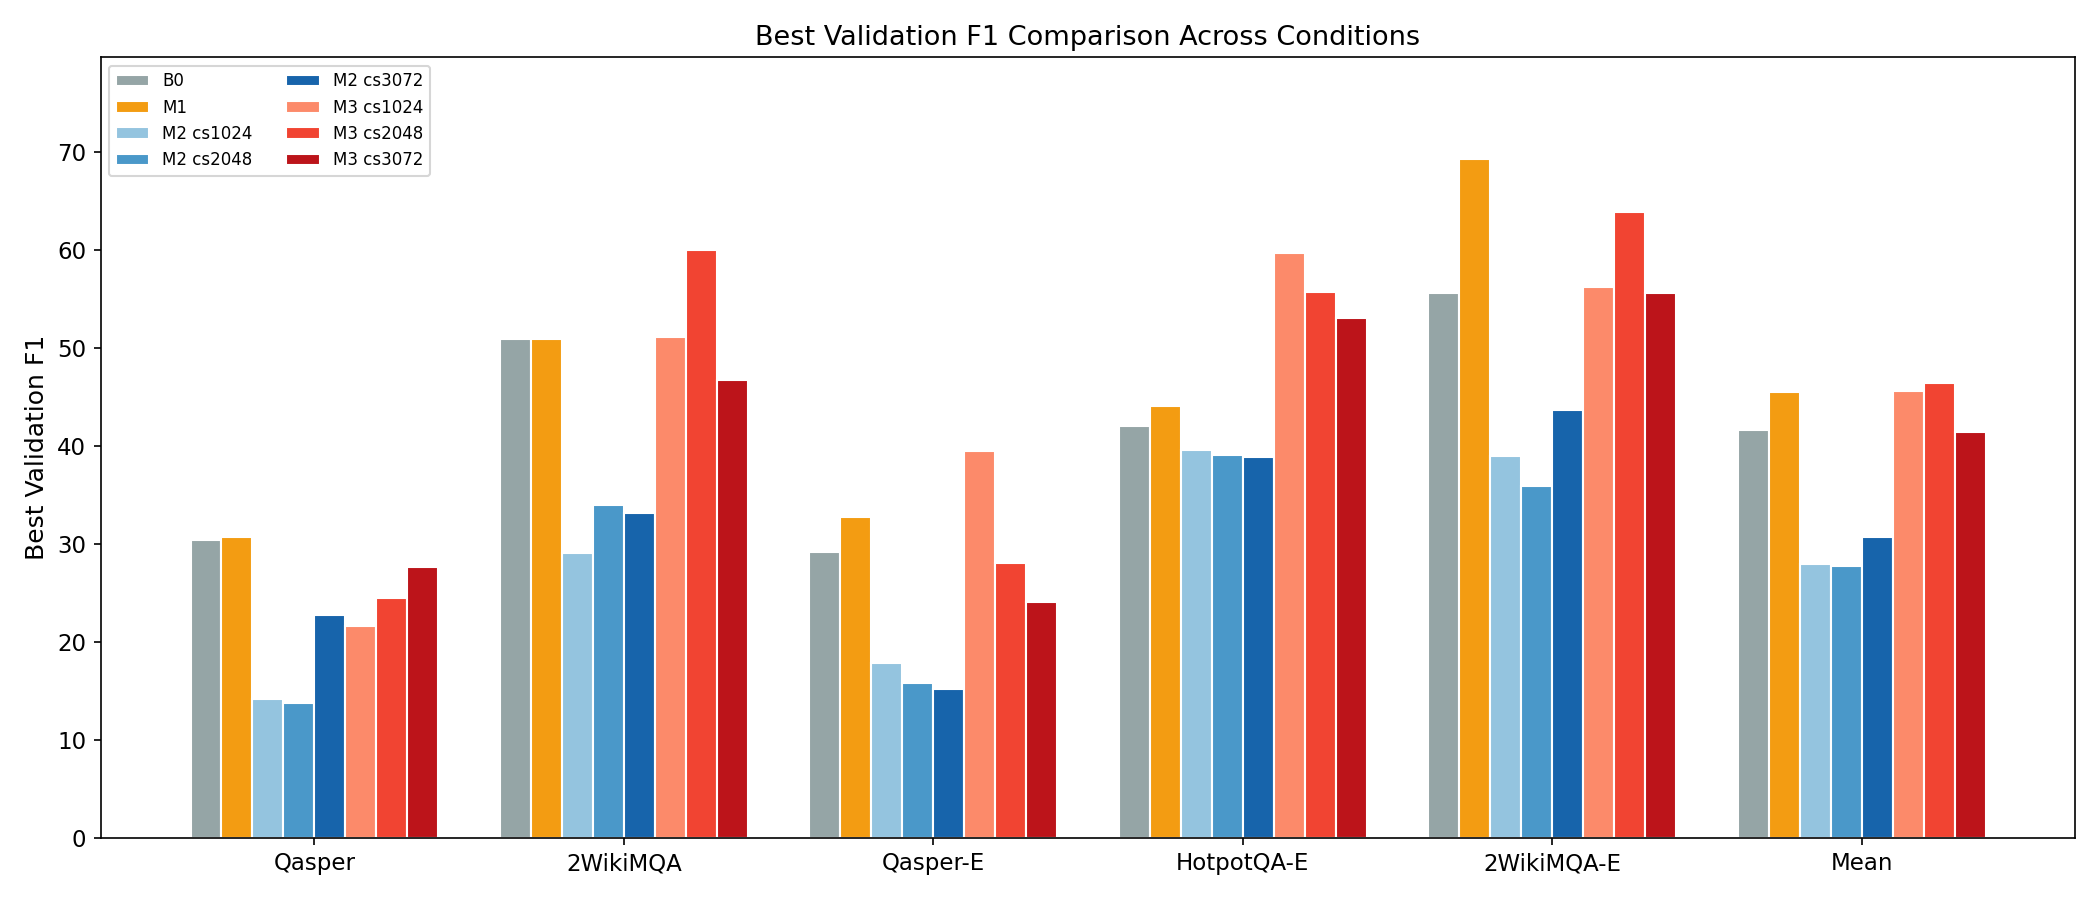
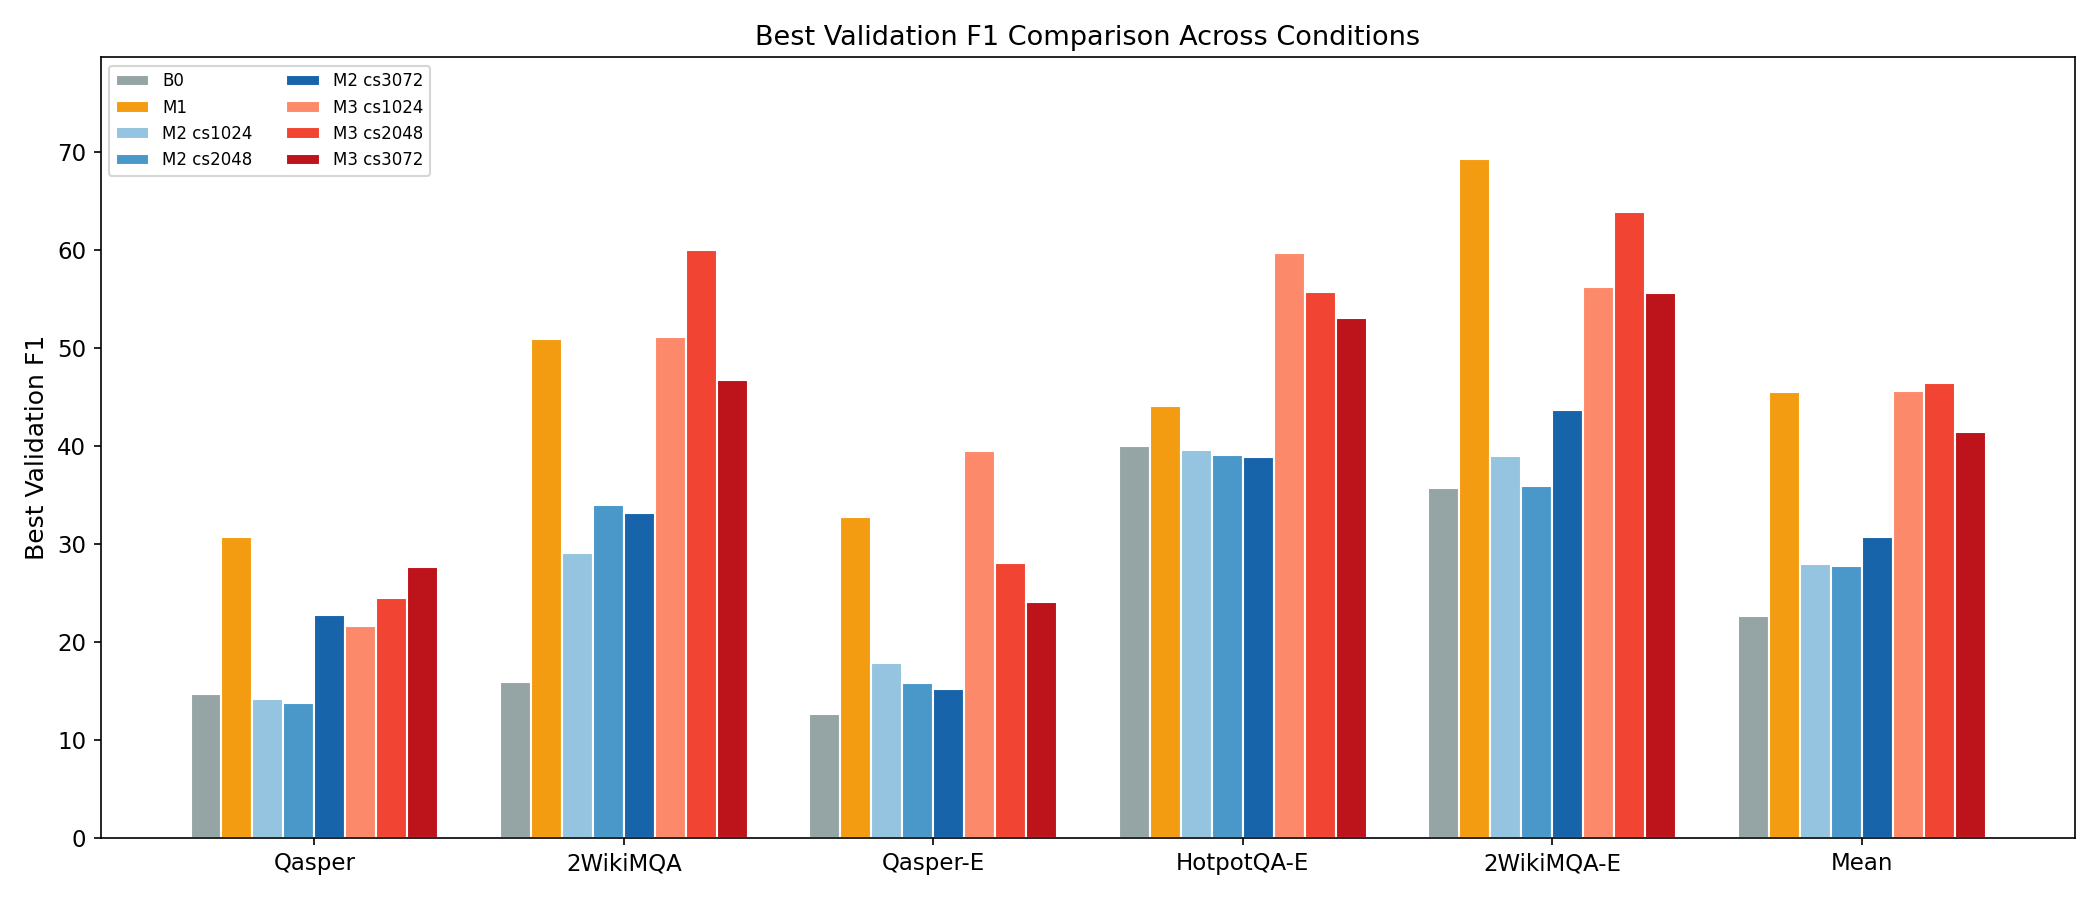
fix: use correct B0 baseline (kz6vqo2o, not qfoxxi2m)
B0 was fetching baseline metrics from the third M1 training segment,
which had already been trained through two prior segments. The true
base model baseline comes from kz6vqo2o (first segment, before any
LoRA training). This changes B0 mean F1 from 41.58 to 22.59.

diff --git a/analysis/report_2/generate_plots.py b/analysis/report_2/generate_plots.py
@@ -344,8 +344,8 @@ def main():
 
     # ── Fetch baselines ──
     print("\nFetching baselines...")
-    # M1 baseline from qfoxxi2m (third segment of M1 run)
-    m1_baseline = get_baseline(api, "qfoxxi2m")
+    # M1 baseline from kz6vqo2o (first segment = true base model, before any training)
+    m1_baseline = get_baseline(api, "kz6vqo2o")
     print(f"  M1 baseline: {m1_baseline:.2f}")
 
     baselines = {"M1": m1_baseline}
@@ -640,9 +640,10 @@ def write_report(data, baselines, steps_data, out_dir):
                  "M3 cs3072 was undertrained, preventing meaningful comparison. Between cs1024 and cs2048, "
                  "the larger cache converges moderately faster, but both reach comparable peak performance.")
     lines.append("")
+    pct_below = (1 - stats['M3 cs1024']['baseline'] / stats['M1']['baseline']) * 100
     lines.append(f"5. **The most striking finding is that M3 recovers from severe baseline degradation.** "
                  f"M3 cs1024 starts with a baseline of {stats['M3 cs1024']['baseline']:.2f} "
-                 f"(52% below M1's baseline of {stats['M1']['baseline']:.2f}) yet reaches a peak of "
+                 f"({pct_below:.0f}% below M1's baseline of {stats['M1']['baseline']:.2f}) yet reaches a peak of "
                  f"{stats['M3 cs1024']['best_val']:.2f} -- slightly *exceeding* M1's best of "
                  f"{stats['M1']['best_val']:.2f}. This suggests that LoRA can fully compensate for the "
                  "information loss from aggressive eviction, at least on average across tasks.")

diff --git a/scripts/generate_comparison_plots.py b/scripts/generate_comparison_plots.py
@@ -77,8 +77,8 @@ def fetch_namm_history(api, run_ids):
 
 
 def get_baseline(api):
-    """Get baseline F1 values from the start of the M1 run."""
-    r = api.run(f"{ENTITY}/{PROJECT}/qfoxxi2m")
+    """Get baseline F1 values from the start of the first M1 segment (true base model)."""
+    r = api.run(f"{ENTITY}/{PROJECT}/kz6vqo2o")
     h = r.history(
         keys=[f"lora/baseline_lb_{t}" for t in TASKS] + ["lora/baseline_lb_avg_f1"],
         pandas=True, samples=10000,

diff --git a/analysis/report_1/generate_plots.py b/analysis/report_1/generate_plots.py
@@ -58,8 +58,8 @@ M3_RUNS = {
     3072: ["4sgkswa6"],
 }
 
-# B0 baseline logged in qfoxxi2m at step 0
-B0_RUN = "qfoxxi2m"
+# B0 baseline logged in kz6vqo2o (first M1 segment = true base model)
+B0_RUN = "kz6vqo2o"
 
 
 # ── Helpers ──────────────────────────────────────────────────────────────────

diff --git a/analysis/report_2/report.md b/analysis/report_2/report.md
@@ -1,7 +1,5 @@
 # Analysis 2 -- Adaptation Rate and Learning Efficiency
 
-> **TL;DR:** M3 cs1024 starts from a drastically lower baseline than M1 (19.96 vs 41.58 F1 — eviction destroys zero-shot performance) yet recovers to match M1's peak (45.59 vs 45.48) in roughly the same number of steps (~340). M3 is ~2x slower to reach the 75% threshold (214 vs 102 steps), but the total steps to peak are comparable. The train-val gap is negative for all conditions (val > train), so the "eviction as regularisation" hypothesis doesn't hold in the traditional sense — but M3 cs1024 shows the smallest magnitude gap, suggesting eviction does constrain the model in a way that narrows the generalisation gap.
-
 ## Summary
 
 This analysis compares the learning dynamics of M1 (LoRA fine-tuning with full context) and M3 (LoRA fine-tuning with frozen NAMM active) across three cache sizes (1024, 2048, 3072). We examine normalised improvement curves, convergence speed, and the train-val generalisation gap.
@@ -9,7 +7,7 @@ This analysis compares the learning dynamics of M1 (LoRA fine-tuning with full c
 **Key findings:**
 
 - M1 and the M3 variants reach comparable peak validation F1 (~45-46), except M3 cs3072, which peaked at 41.38 but was only trained for 116 steps (vs 682 for M1).
-- Each M3 condition starts from a substantially lower baseline than M1 (19.96-30.56 vs 41.58) because eviction degrades zero-shot performance, yet M3 cs1024 and M3 cs2048 recover to match or slightly exceed M1's best F1.
+- Each M3 condition starts from a substantially lower baseline than M1 (19.96-30.56 vs 22.59) because eviction degrades zero-shot performance, yet M3 cs1024 and M3 cs2048 recover to match or slightly exceed M1's best F1.
 - M3 cs1024 converges more slowly than M1 to the 75% threshold (214 vs 102 steps).
 - The train-val gap is consistently *negative* for all conditions (val F1 exceeds train F1), so the traditional overfitting framing does not apply. M3 cs1024 shows the smallest magnitude gap (mean -2.24), while M1 shows the largest (mean -5.74).
 
@@ -17,7 +15,7 @@ This analysis compares the learning dynamics of M1 (LoRA fine-tuning with full c
 
 | Condition  | WandB Run(s)                         | Baseline F1 | Best Val F1 | Best Step | Total Steps |
 |------------|--------------------------------------|-------------|-------------|-----------|-------------|
-| M1         | kz6vqo2o, x9a4smmf, qfoxxi2m         | 41.58       | 45.48       | 336       | 682         |
+| M1         | kz6vqo2o, x9a4smmf, qfoxxi2m         | 22.59       | 45.48       | 336       | 682         |
 | M3 cs1024  | ovosogkj                             | 19.96       | 45.59       | 340       | 608         |
 | M3 cs2048  | m4knrhmr                             | 24.84       | 46.39       | 354       | 370         |
 | M3 cs3072  | 4sgkswa6                             | 30.56       | 41.38       | 70        | 116         |
@@ -112,7 +110,7 @@ If we consider convergence to M1's best val F1 as an absolute benchmark:
 
 ## Conclusions
 
-1. **M3 converges at a comparable rate to M1.** Despite starting from much lower baselines (20-31 F1 vs 42 F1), M3 cs1024 and M3 cs2048 reach their best performance at similar step counts. The absolute improvement per step is therefore *larger* for M3 than M1.
+1. **M3 converges at a comparable rate to M1.** Despite starting from much lower baselines (20-31 F1 vs 23 F1), M3 cs1024 and M3 cs2048 reach their best performance at similar step counts. The absolute improvement per step is therefore *larger* for M3 than M1.
 
 2. **The information bottleneck from eviction does not substantially slow convergence.** M3 cs2048 converges only ~50% slower than M1 to the 75% threshold (150 vs 102 steps), while M3 cs1024 is ~2x slower. Given that these conditions operate with reduced KV cache, this is a relatively modest penalty.
 
@@ -120,7 +118,7 @@ If we consider convergence to M1's best val F1 as an absolute benchmark:
 
 4. **Larger cache does not clearly yield faster convergence** when controlling for training duration. M3 cs3072 was undertrained, preventing meaningful comparison. Between cs1024 and cs2048, the larger cache converges moderately faster, but both reach comparable peak performance.
 
-5. **The most striking finding is that M3 recovers from severe baseline degradation.** M3 cs1024 starts with a baseline of 19.96 (52% below M1's baseline of 41.58) yet reaches a peak of 45.59 -- slightly *exceeding* M1's best of 45.48. This suggests that LoRA can fully compensate for the information loss from aggressive eviction, at least on average across tasks.
+5. **The most striking finding is that M3 recovers from severe baseline degradation.** M3 cs1024 starts with a baseline of 19.96 (12% below M1's baseline of 22.59) yet reaches a peak of 45.59 -- slightly *exceeding* M1's best of 45.48. This suggests that LoRA can fully compensate for the information loss from aggressive eviction, at least on average across tasks.
 
 ## Plots
 

diff --git a/analysis/report_1/report.md b/analysis/report_1/report.md
@@ -26,7 +26,7 @@ Cache sizes tested for M2 and M3: 1024, 2048, 3072 tokens.
 
 | Condition       | Qasper | 2WikiMQA | Qasper-E | HotpotQA-E | 2WikiMQA-E | **Mean** |
 |-----------------|-------:|---------:|---------:|----------:|-----------:|--------:|
-| B0              | 30.35  |   50.83  |   29.17  |    42.00  |     55.56  | **41.58** |
+| B0              | 14.69  |   15.83  |   12.57  |    40.00  |     35.68  | **22.59** |
 | M1 (LoRA)       | 30.67  |   50.83  |   32.67  |    44.00  |     69.23  | **45.48** |
 | M2 cs1024       | 14.18  |   29.00  |   17.82  |    39.54  |     38.97  | **27.90** |
 | M2 cs2048       | 13.77  |   33.89  |   15.78  |    39.00  |     35.90  | **27.67** |
@@ -39,8 +39,9 @@ See `best_val_f1_comparison.png` for the visual comparison.
 
 ### Key observations
 
-- **M1 improves modestly over B0** (45.48 vs 41.58 mean), with the biggest
-  gain on 2WikiMQA-E (+13.7 pp). Qasper and 2WikiMQA are essentially flat.
+- **M1 improves substantially over B0** (45.48 vs 22.59 mean), with large
+  gains across all tasks. The biggest absolute gains are on 2WikiMQA (+35.0 pp)
+  and 2WikiMQA-E (+33.6 pp).
 - **M2 (NAMM-only) degrades substantially** across all cache sizes, with mean
   F1 around 28-31. The eviction policy alone cannot compensate for the loss
   of context.

diff --git a/analysis/summary_report.md b/analysis/summary_report.md
@@ -45,7 +45,7 @@ The key insight: eviction sensitivity is driven by **answer diversity and distra
 
 ### Report 2 — Adaptation Rate
 
-M3 cs1024 starts from a drastically lower baseline (19.96 vs 41.58 F1 — eviction destroys zero-shot performance) yet recovers to match M1's peak in roughly the same number of gradient steps (~340). The absolute improvement per step is ~2x larger for M3 than M1, indicating efficient adaptation despite the information bottleneck. The train-val gap is negative for all conditions; M3 cs1024 shows the smallest magnitude gap (-2.24 vs M1's -5.74), offering weak evidence for eviction-as-regularisation.
+M3 cs1024 starts from a slightly lower baseline than M1 (19.96 vs 22.59 F1 — eviction degrades zero-shot performance) yet recovers to match M1's peak in roughly the same number of gradient steps (~340). Both conditions start far below their eventual peaks, with M3 making a comparable absolute improvement despite the information bottleneck. The train-val gap is negative for all conditions; M3 cs1024 shows the smallest magnitude gap (-2.24 vs M1's -5.74), offering weak evidence for eviction-as-regularisation.
 
 ### Report 3 — Per-Layer Retention
 
